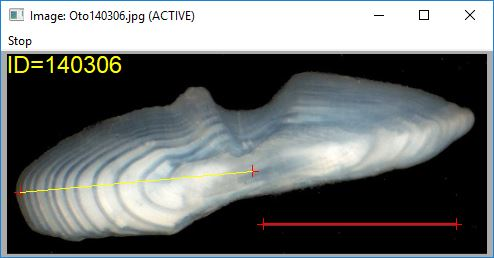
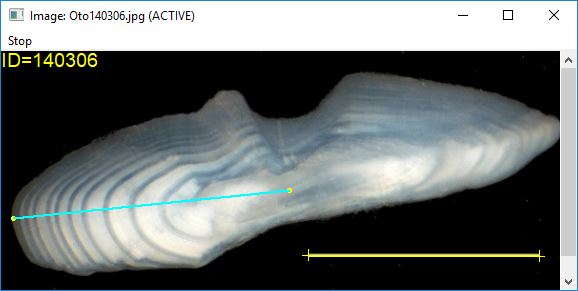
Added annuli labels to showDigitizedImage

diff --git a/NEWS.md b/NEWS.md
@@ -1,9 +1,12 @@
 # RFishBC 0.0.3 ongoing
 * `digitizeRadii()`: Modified. Slight modification to the messages in the console. Re worked the code with `locator()` so that the points will be shown "snapped to the transect" if `snap2Transect=TRUE` (this addresses [#7](https://github.com/droglenc/RFishBC/issues/7)). Added an `orig.pts` data.frame to the RData object which contains the original (non-snapped to transect) points (which can be plotted with `showDigitizedImage()`). Changed `addTransect=` to `showTransect=` to make more similar to `showDigitezedImages()`.
-* `showDigitizedImage()`: Modified. Added `showOrigPts=`, `pch.show2=`, `col.show2=`, and `cex.show2=` to handle including original points on the image.
+* `RFBCoptions()`: Modified. Added `showAnnuliLabels=`, `col.ann=`, and `cex.ann=` for use in `showDigitizedImage()`. Changed defaults of mostly colors, pchs, and cexs.
+* `showDigitizedImage()`: Modified. Added `showAnnuliLabels=`, `col.ann=`, and `cex.ann=` to shown annuli numbers when just one transect is shown. Added `showOrigPts=`, `pch.show2=`, `col.show2=`, and `cex.show2=` to handle including original points on the image.
 * `iFindTransect()`: Added. Moved this code out of `iSelectAnnuli()`.
 * `iGetImage()`: Modified. Streamlined code. Added `native=TRUE` to `read.bitmap()` call to send to the underlying functions as this is apparently more efficient when using `rasterImage()` (which this uses).
+* `iOrderPts()`: Added. Made it easier to add annuli labels in `showDigitizedImage()`.
 * `iSelectAnnuli()`: Modified. Now calls `iSelectTransect()`.
+* `iShowAnnuliLabels()`: Added. Made it easier to add annuli labels in `showDigitizedImage()`.
 * `ishowTransect()`: Added. Moved this code out of `iSelectAnnuli()`. Also called from `showDigitizedImage()`.
 
 # RFishBC 0.0.2 27-Apr-18
